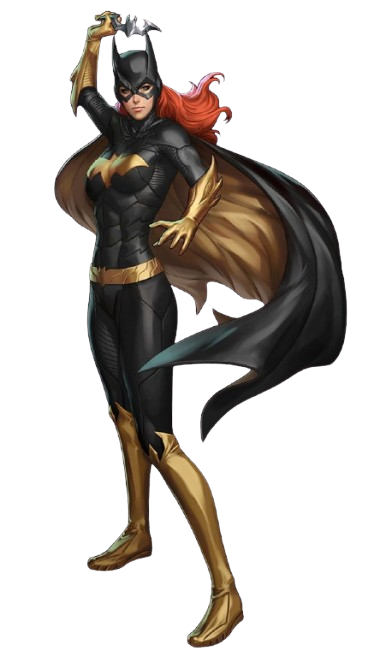
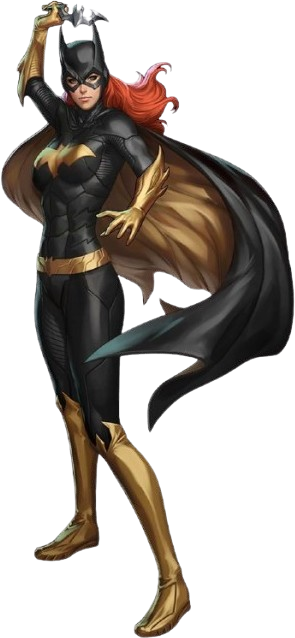
fix some .png files size issues

diff --git a/js/game.js b/js/game.js
@@ -11,10 +11,10 @@ class Game {
     this.highScoreContainer = document.getElementById("high-scores-ol");
     this.player = new Player(
       this.gameScreen,
-      275,
-      400,
-      130,
-      240,
+      200,
+      500,
+      100,
+      180,
       this.gameMode
     );
     this.height = 600;
